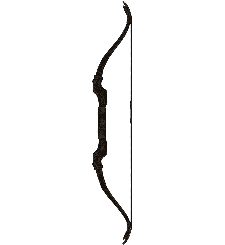
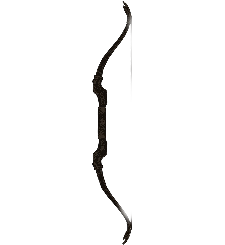
BOW RENDERING DEBUG

Changed region(s): [[0.5289, 0.0571, 0.5911, 0.9143]]

diff --git a/main.py b/main.py
@@ -2,14 +2,27 @@ import mediapipe as mp
 from detections import *
 from rendering import *
 from config import *
+import time
 
 
 bow_img = cv2.imread('static/images/bow.png', cv2.IMREAD_UNCHANGED)
+arrow_img = cv2.imread('static/images/arrow.png', cv2.IMREAD_UNCHANGED)
 mp_pose = mp.solutions.pose
 mp_hands = mp.solutions.hands
+was_hand_behind_back = False
+is_arrow_in_hand = False
+is_bow_drawn = False
 
-with (mp_pose.Pose(min_detection_confidence=DETECTION_COEF) as pose_detector,
-      mp_hands.Hands(min_detection_confidence=DETECTION_COEF) as hand_detector):
+last_fist_t = 0.0
+
+fist_on = fist_off = 0
+fist_state = False
+
+alpha = 0.35
+lk_prev = lw_prev = None
+
+with (mp_pose.Pose(min_detection_confidence=POSE_COEF, min_tracking_confidence=0.6) as pose_detector,
+      mp_hands.Hands(min_detection_confidence=HAND_COEF, min_tracking_confidence=0.65) as hand_detector):
     cap = cv2.VideoCapture(0)
     cv2.namedWindow(WIN_NAME, cv2.WINDOW_NORMAL)
     cv2.resizeWindow(WIN_NAME, SCREEN_W, SCREEN_H)
@@ -32,8 +45,48 @@ with (mp_pose.Pose(min_detection_confidence=DETECTION_COEF) as pose_detector,
             left_knuckle = landmarks[20]
             left_wrist = landmarks[16]
 
-            if hand_results.multi_hand_landmarks is not None and detect_fist(res_image, hand_results):
-                draw_bow(res_image, bow_img, left_knuckle.x, left_knuckle.y, left_wrist.x, left_wrist.y - WRIST_SHIFT)
+            hand_behind = is_hand_behind_back(landmarks)
+
+            if was_hand_behind_back and not hand_behind:
+                is_arrow_in_hand = not is_arrow_in_hand
+
+            was_hand_behind_back = hand_behind
+
+            t = time.time()
+
+            raw_fist_now = (hand_results.multi_hand_landmarks is not None) and detect_fist(res_image, hand_results)
+
+            if raw_fist_now:
+                last_fist_t = t
+            raw_fist = raw_fist_now or (t - last_fist_t) < FIST_HOLD_S
+
+            # сколько кадров подрят показывается или не показывается
+            if raw_fist:
+                fist_on += 1
+                fist_off = 0
+            else:
+                fist_off += 1
+                fist_on = 0
+
+            if not fist_state and fist_on >= 2: # включение
+                fist_state = True
+            elif fist_state and fist_off >= 8:  # выключение
+                fist_state = False
+
+            if fist_state:
+                lk = (left_knuckle.x, left_knuckle.y)
+                lw = (left_wrist.x, left_wrist.y)
+
+                if lk_prev is None:
+                    lk_prev, lw_prev = lk, lw
+                else:
+                    lk_prev = (alpha * lk[0] + (1 - alpha) * lk_prev[0], alpha * lk[1] + (1 - alpha) * lk_prev[1])
+                    lw_prev = (alpha * lw[0] + (1 - alpha) * lw_prev[0], alpha * lw[1] + (1 - alpha) * lw_prev[1])
+
+                draw_bow(res_image, bow_img, lk_prev[0], lk_prev[1], lw_prev[0], lw_prev[1])
+
+            if is_arrow_in_hand:
+                draw_bow(res_image, arrow_img, landmarks[19].x, landmarks[19].y, landmarks[15].x, landmarks[15].y)
 
         cv2.imshow(WIN_NAME, res_image)
 

diff --git a/detections.py b/detections.py
@@ -15,10 +15,22 @@ def get_points(landmark, shape):
 def palm_size(landmark, shape):
     x1, y1 = landmark[0].x * shape[1], landmark[0].y * shape[0]
     x2, y2 = landmark[5].x * shape[1], landmark[5].y * shape[0]
-    return ((x1 - x2)**2 + (y1 - y2) ** 2) ** .5
+    return ((x1 - x2) ** 2 + (y1 - y2) ** 2) ** .5
 
 
 def detect_fist(img, results):
-    (x, y), r = cv2.minEnclosingCircle(get_points(results.multi_hand_landmarks[0].landmark, img.shape))
-    ws = palm_size(results.multi_hand_landmarks[0].landmark, img.shape)
+    idx = 0
+
+    for i, h in enumerate(results.multi_handedness):
+        if h.classification[0].label == "Left":
+            idx = i
+            break
+
+    lm = results.multi_hand_landmarks[idx].landmark
+    _, r = cv2.minEnclosingCircle(get_points(lm, img.shape))
+    ws = palm_size(lm, img.shape)
     return 2 * r / ws <= FIST_THRESHOLD
+
+
+def is_hand_behind_back(landmarks):
+    return landmarks[19].y > landmarks[13].y and landmarks[11].y > landmarks[13].y

diff --git a/rendering.py b/rendering.py
@@ -1,8 +1,11 @@
+from config import *
 import numpy as np
 import cv2
 
 
 def draw_bow(img, bow, knuckle_x: int, knuckle_y: int, wrist_x: int, wrist_y: int):
+    wrist_y -= WRIST_SHIFT
+
     # Была подборка коэф-ов для поворота
     dx = wrist_x - knuckle_x
     dy = wrist_y - knuckle_y - 0.05

diff --git a/config.py b/config.py
@@ -3,5 +3,7 @@ SCREEN_W = 1280
 SCREEN_H = 960
 
 WRIST_SHIFT = -0.05
-DETECTION_COEF = 0.65
-FIST_THRESHOLD = 1.4
+FIST_THRESHOLD = 1.5
+POSE_COEF = 0.45
+HAND_COEF = 0.35
+FIST_HOLD_S = 0.25

diff --git a/processJournal.md b/processJournal.md
@@ -1,3 +1,4 @@
 # Ход создания проекта 
 - **1 декабря** - Создал свой репозиторий на GitHub. Научился работать с md-файлами. Научился делать коммиты прямо в PyCharme.
-- **5 декабря** - Придумал проект. Начал писать код. Сделал базовый код, чтобы отображалось в отдельном окне изображение камеры. Сделал подготовительную файловую структуру. Наметил план на следующие дни. 
+- **5 декабря** - Придумал проект. Начал писать код. Сделал базовый код, чтобы отображалось в отдельном окне изображение камеры. Сделал подготовительную файловую структуру. Наметил план на следующие дни.
+- **15 декабря** - Поворот и падение лука.
